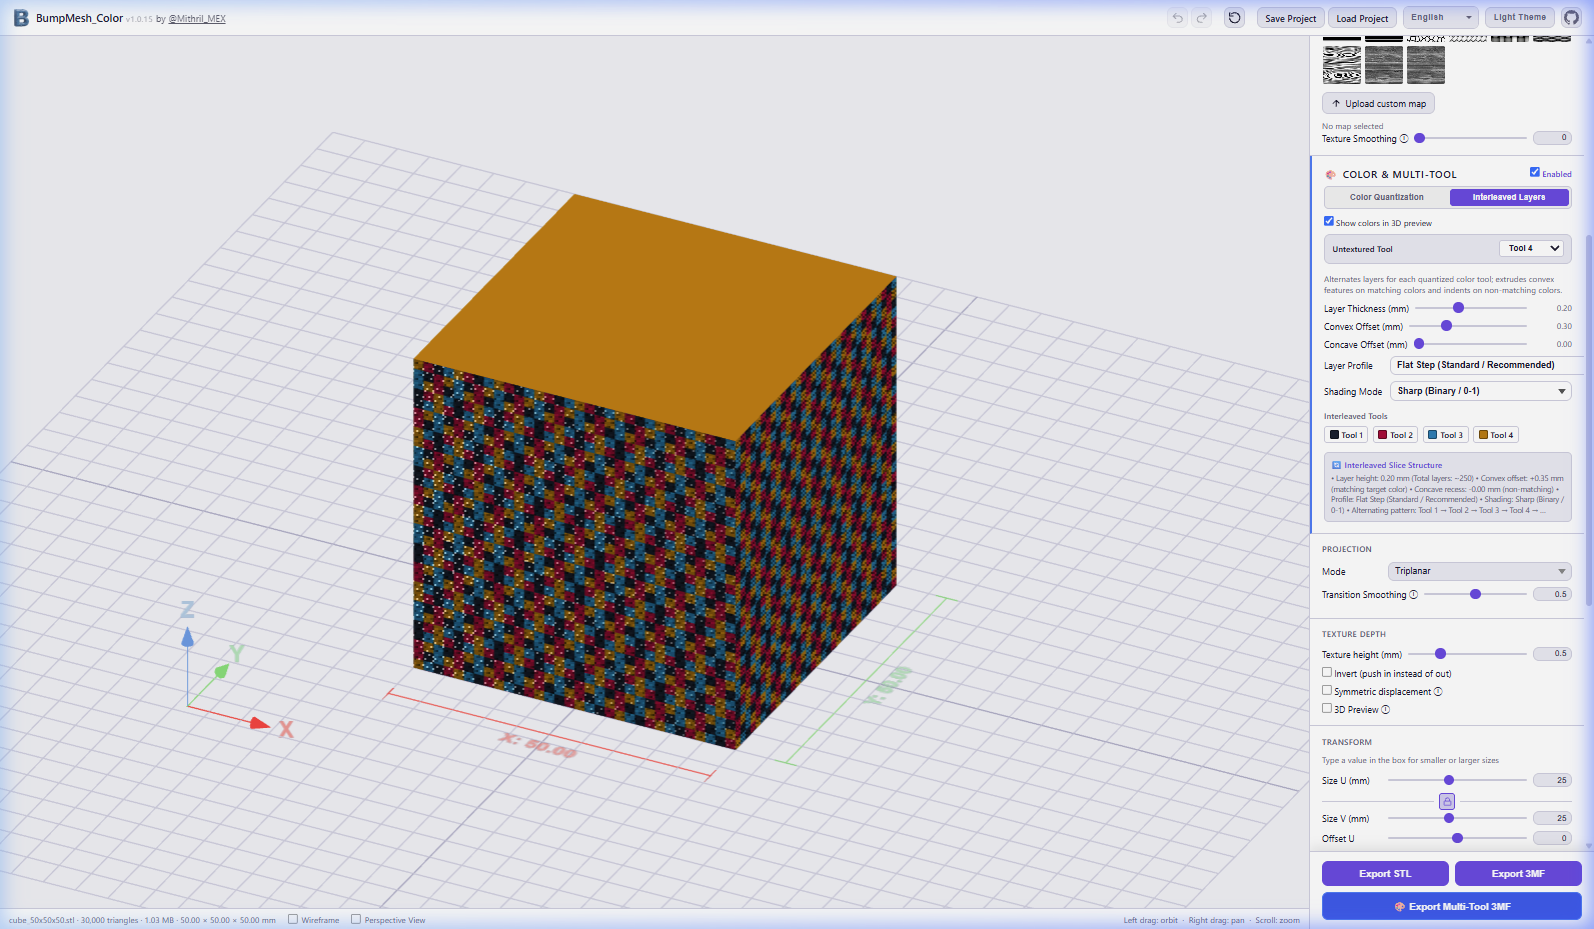
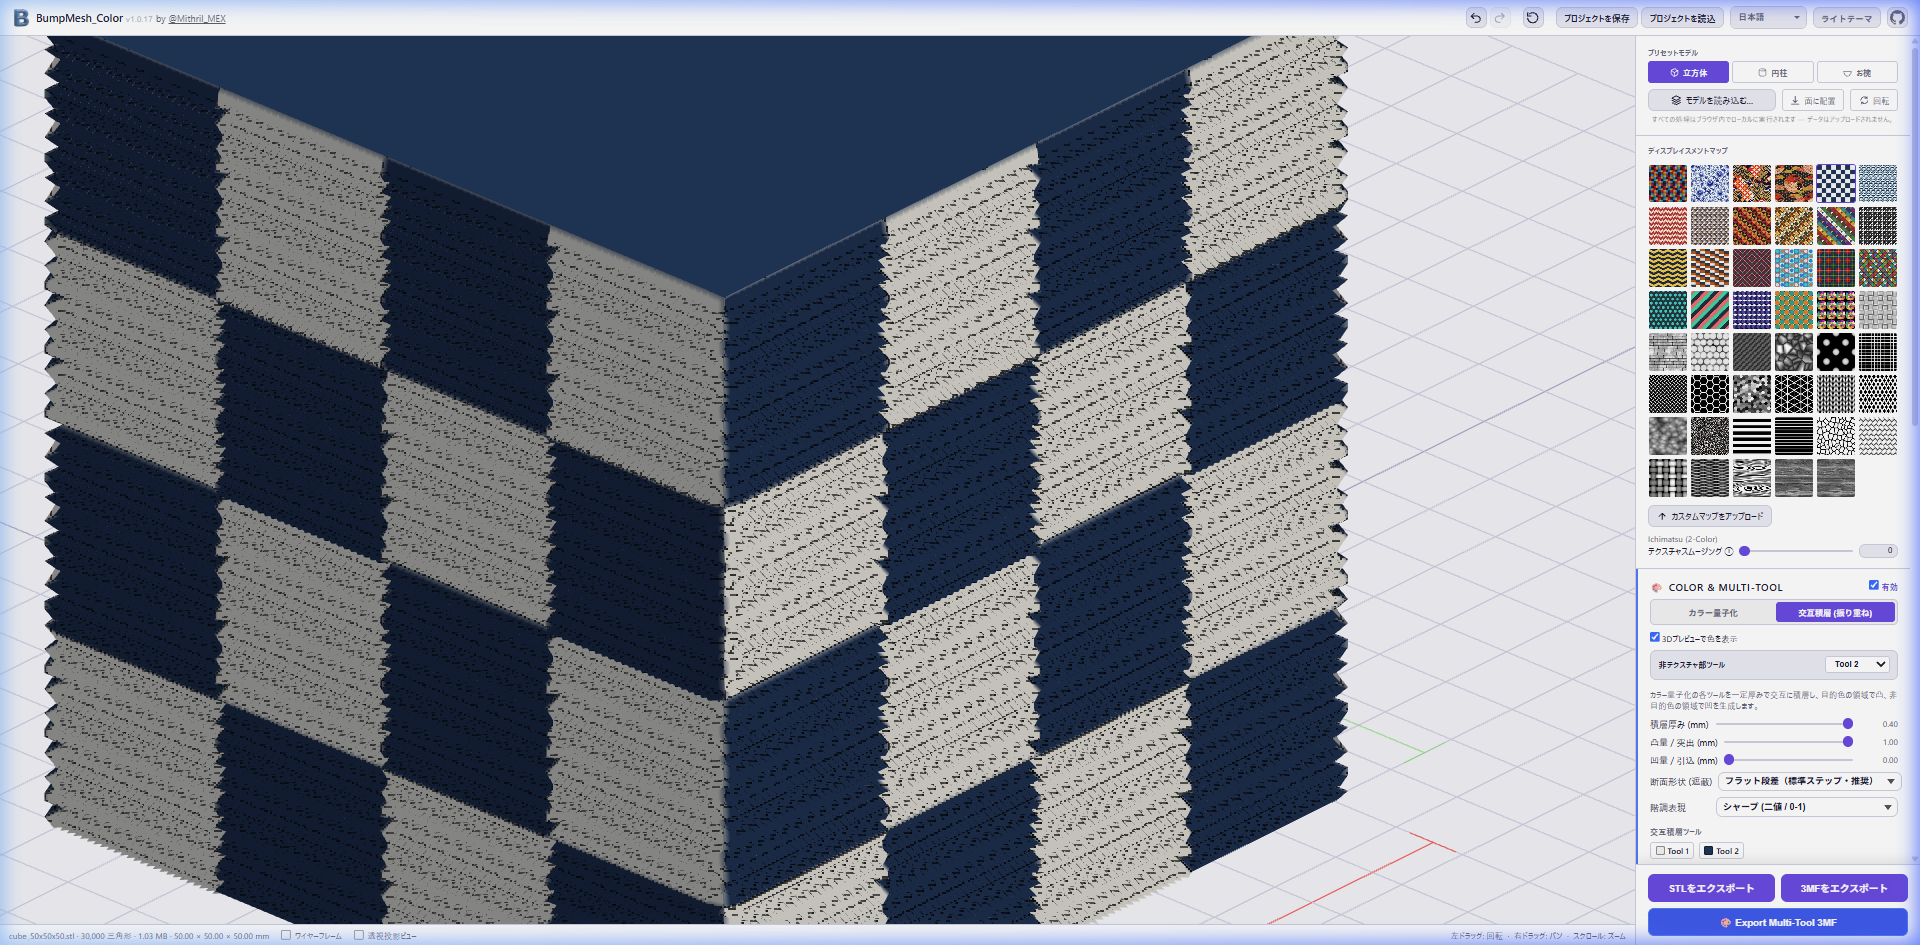
docs: update interleaved layer screenshots with zoomed 2-color pattern and detail view

diff --git a/js/main.js b/js/main.js
@@ -9,7 +9,7 @@ import { initViewer, loadGeometry, setMeshMaterial, setMeshGeometry, setWirefram
          setExclusionOverlay, setHoverPreview, setViewerTheme,
          setProjection, requestRender,
          clearDiagOverlays, setDiagEdges, addDiagFaces,
-         setRotationGizmo, isGizmoDragging, getViewerThumbnail } from './viewer.js?v=20260912_110';
+         setRotationGizmo, isGizmoDragging, getViewerThumbnail } from './viewer.js?v=20260912_111';
 import { loadModelFile, computeBounds, getTriangleCount }  from './stlLoader.js?v=20260908d';
 import { estimateStep } from './stepLoader.js?v=20260908d';
 import { resolveStepSettings } from './stepConvert.js?v=20260908d';

diff --git a/js/viewer.js b/js/viewer.js
@@ -476,6 +476,17 @@ export function initViewer(canvas) {
       renderer.render(scene, camera);
     }
   })();
+
+  // Automation / inspect helper
+  window.__viewer = {
+    get camera() { return camera; },
+    get orthoCamera() { return orthoCamera; },
+    get perspCamera() { return perspCamera; },
+    get controls() { return controls; },
+    get scene() { return scene; },
+    get renderer() { return renderer; },
+    requestRender
+  };
 }
 
 function onResize() {
